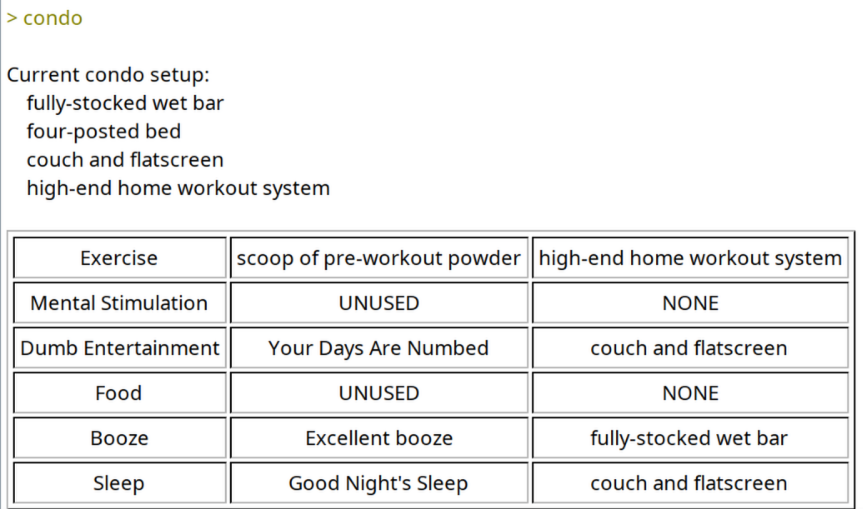
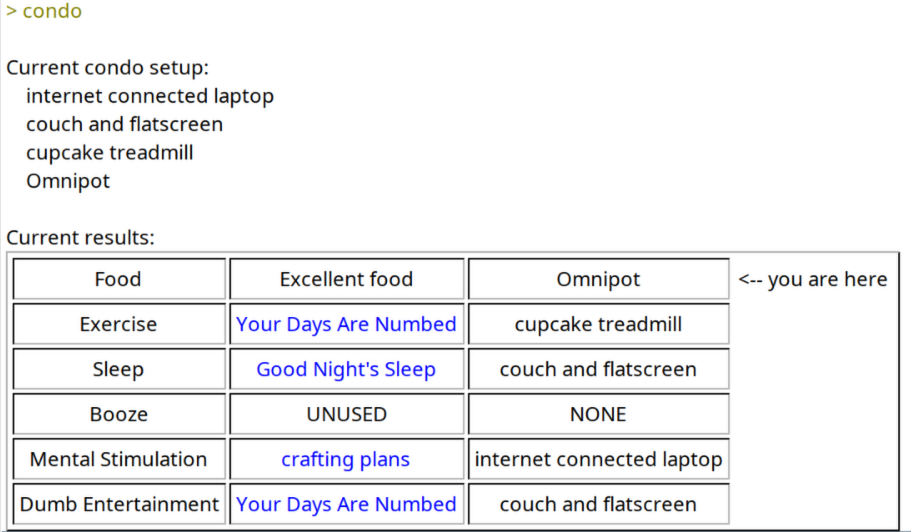
add need order

Changed region(s): [[0.0, 0.4126, 0.9942, 1.0], [0.0, 0.0884, 0.3917, 0.3831], [0.0, 0.0, 0.0904, 0.0589]]

diff --git a/README.md b/README.md
@@ -13,6 +13,8 @@ This is a simple command line interface for the Leprecondo in KoLMafia.
 - If given "discovered" as an argument, it prints your current available furniture.
 - If given "todo" as an argument, it prints the furniture you haven't found yet, and where to go.
 
+If known, furniture is displayed in task order, with an indicator of your leprechaun's current location.
+
 ## Example:
 ```
 > condo help
